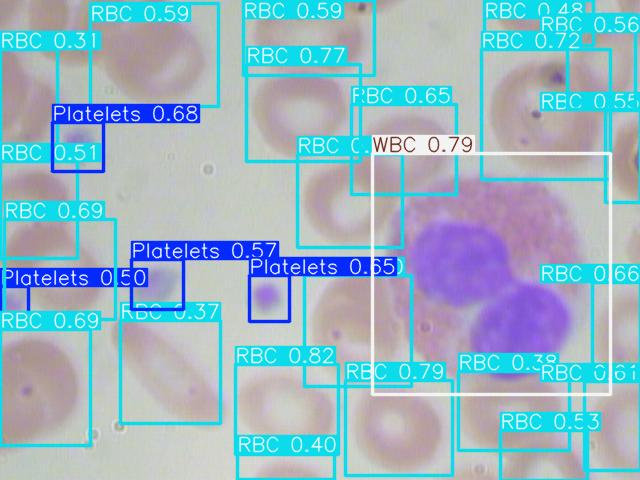
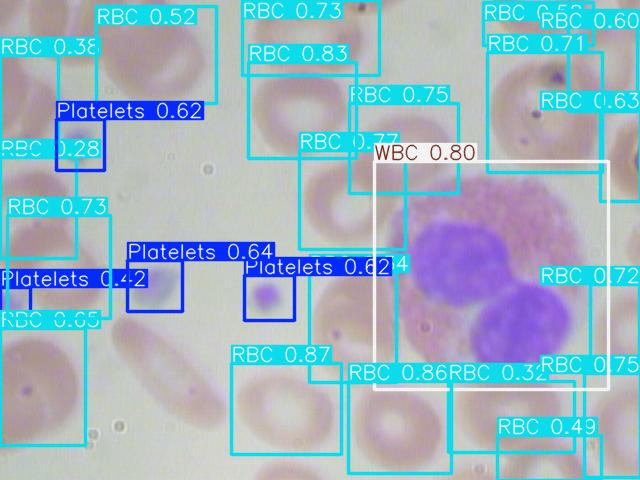
Edit yolov5 code according to the new weight file

Changed region(s): [[0.0, 0.0, 1.0, 1.0]]

diff --git a/bccd/yolov5.py b/bccd/yolov5.py
@@ -1,7 +1,7 @@
 import glob, random, torch
 
 # Configurations
-WEIGHTS_PATH = './weights/best_bccd_v1.pt'
+WEIGHTS_PATH = './weights/best_bccd_v3.pt'
 TEST_IMAGES_PATH = './test-images/*.jpg'
 OUTPUT_PROJECT = './'
 OUTPUT_NAME = 'outputs-v5'
